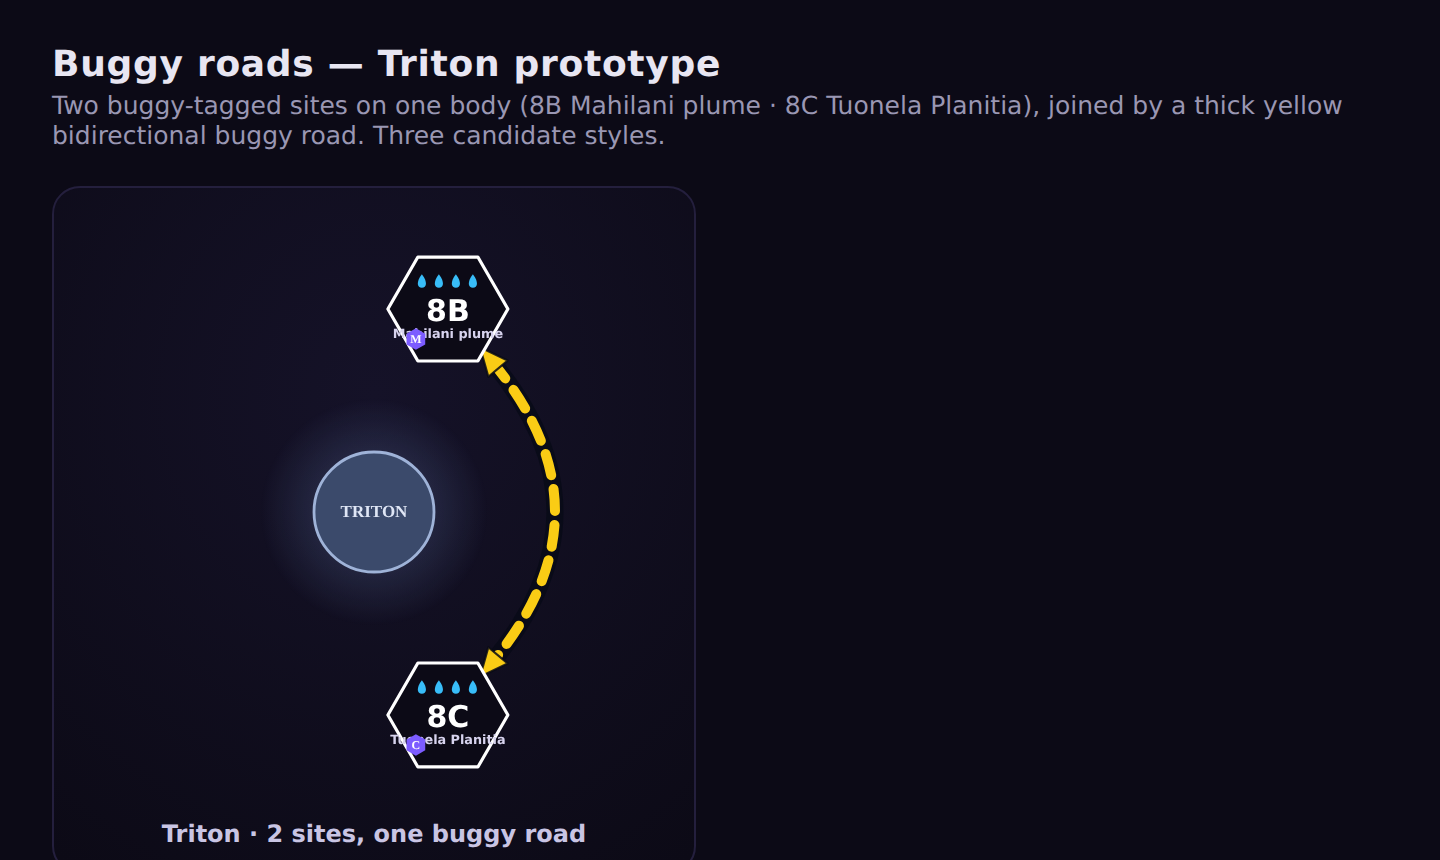
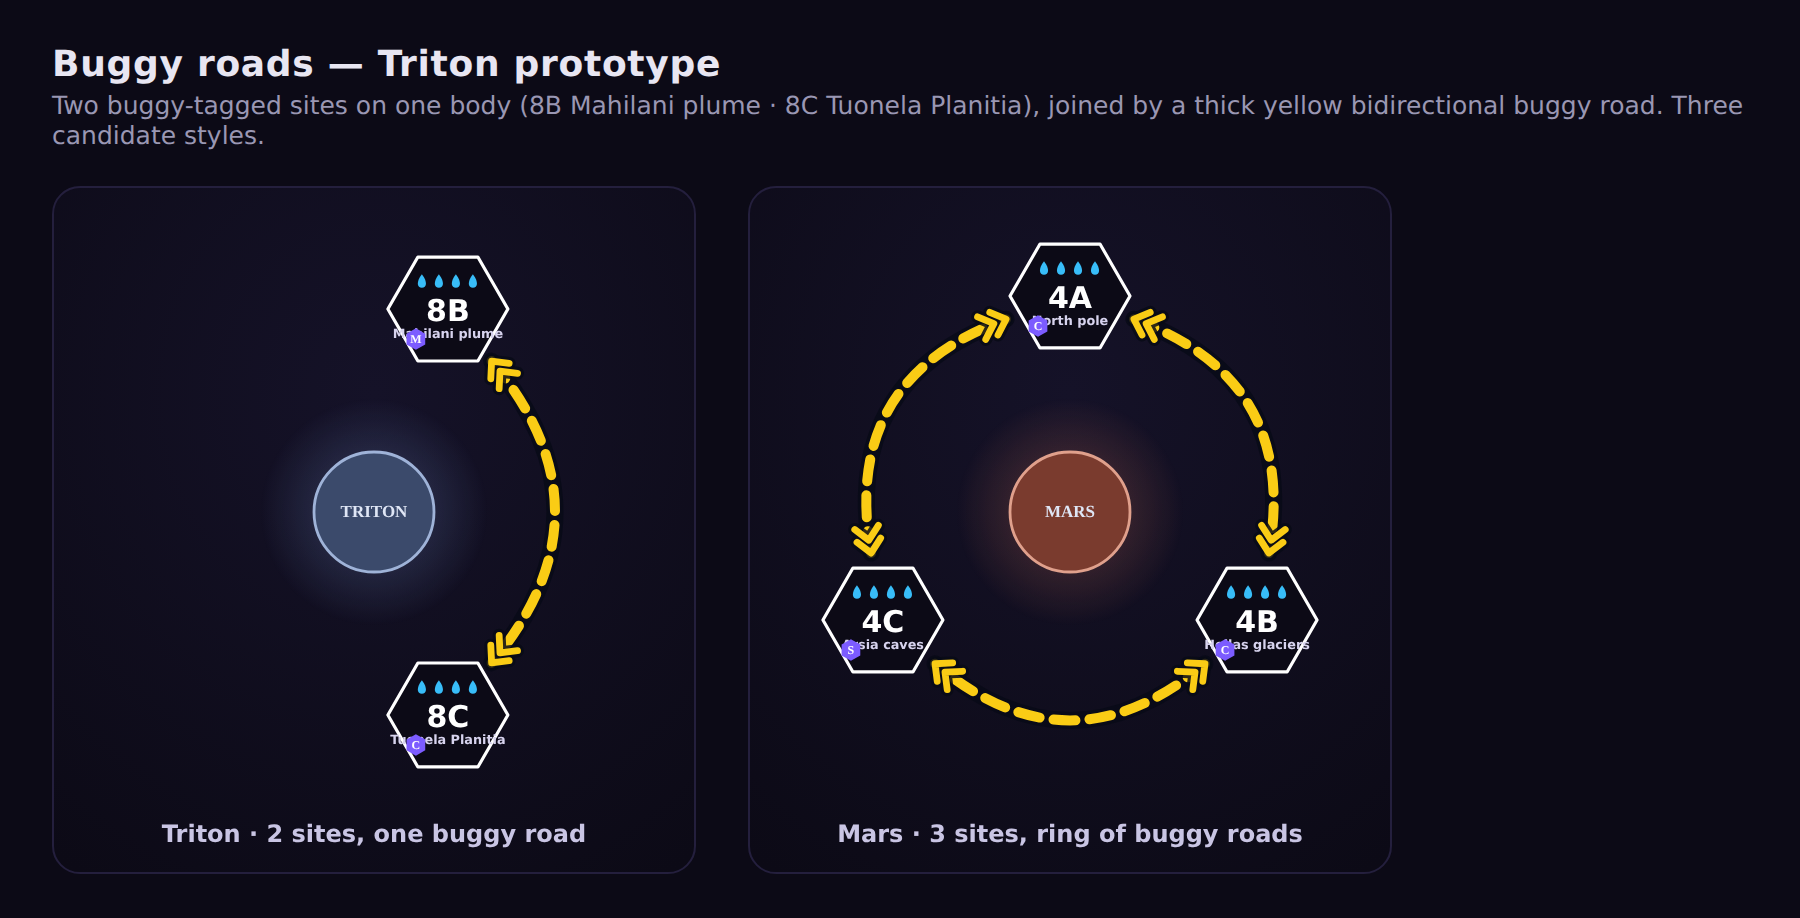
Buggy-roads mockup: double-chevron ends, Triton + Mars tiles
Local design mockup only. Ends drawn as bidirectional double chevrons.

Claude-Session: https://claude.ai/code/session_01Eeh4t5tsmPM4Wx7VCMk2BP

diff --git a/scratchpad/buggy-roads-mockup.html b/scratchpad/buggy-roads-mockup.html
@@ -159,9 +159,27 @@ function roadCurve(ctx,A,B,C){
   // thick yellow dashes
   ctx.strokeStyle=NAV_YELLOW; ctx.lineWidth=5; ctx.setLineDash([11,7]); seg(); ctx.stroke();
   ctx.setLineDash([]);
-  // bidirectional arrowheads, pointing along the curve tangent at each end
-  arrowHead(ctx,b.x,b.y, b.x-Cp.x, b.y-Cp.y, 9, NAV_YELLOW);
-  arrowHead(ctx,a.x,a.y, a.x-Cp.x, a.y-Cp.y, 9, NAV_YELLOW);
+  // bidirectional DOUBLE chevrons (<<--->>), pointing along the curve tangent
+  doubleChevron(ctx,b.x,b.y, b.x-Cp.x, b.y-Cp.y, NAV_YELLOW);
+  doubleChevron(ctx,a.x,a.y, a.x-Cp.x, a.y-Cp.y, NAV_YELLOW);
+}
+
+// two nested chevrons at (x,y) pointing along (dx,dy): the ">>" of <<--->>
+function doubleChevron(ctx,x,y,dx,dy,color){
+  const L=Math.hypot(dx,dy)||1, ux=dx/L, uy=dy/L, px=-uy, py=ux;
+  const s=6.5, spread=6, gap=6.5;
+  ctx.lineCap='round'; ctx.lineJoin='round'; ctx.setLineDash([]);
+  for(const [w,col] of [[6.5,'rgba(8,10,22,.85)'],[3.4,color]]){
+    ctx.lineWidth=w; ctx.strokeStyle=col;
+    for(let k=0;k<2;k++){
+      const ax=x-ux*gap*k, ay=y-uy*gap*k;                 // apex of this chevron
+      ctx.beginPath();
+      ctx.moveTo(ax-ux*s+px*spread, ay-uy*s+py*spread);
+      ctx.lineTo(ax, ay);
+      ctx.lineTo(ax-ux*s-px*spread, ay-uy*s-py*spread);
+      ctx.stroke();
+    }
+  }
 }
 
 // ---- Variant B: dashed yellow road, double arrowheads (matches photo) -------
